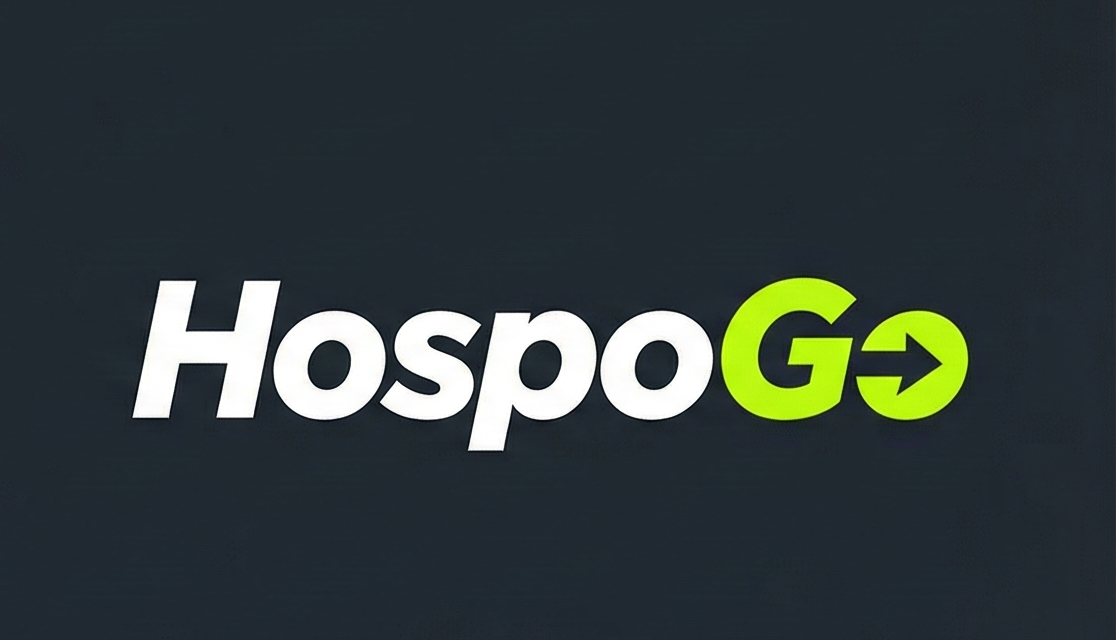
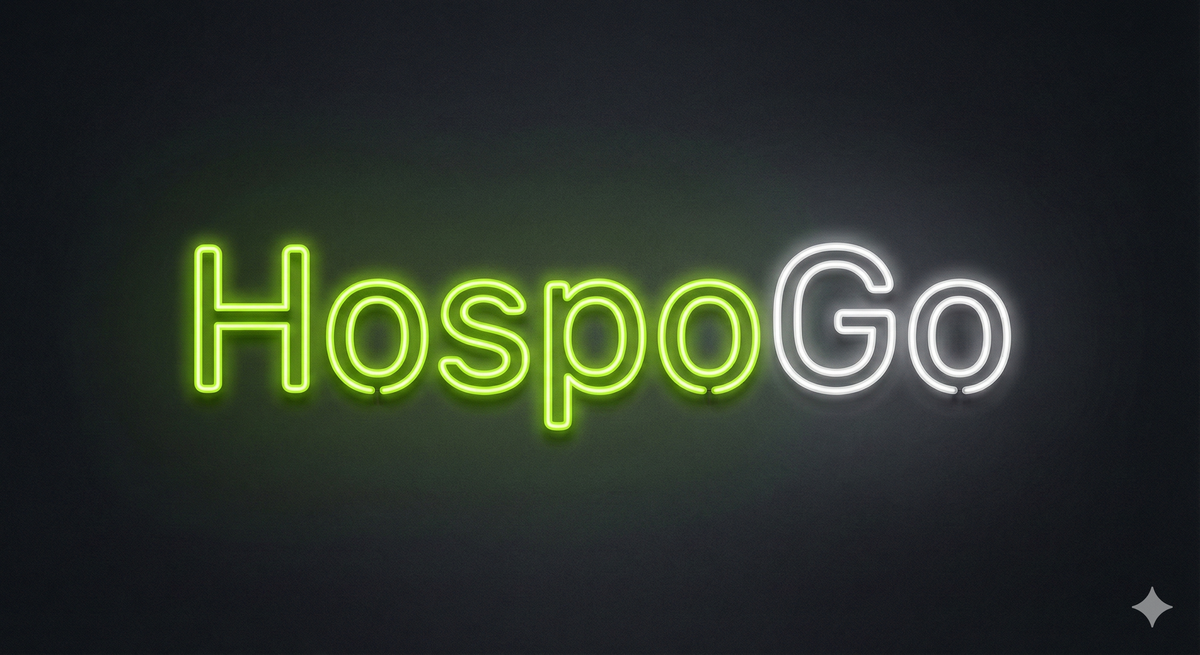
chore(branding): apply neon wordmark across shell
Replaces the brand wordmark asset and updates navbar/footer/splash/loading usage so the neon logo renders consistently without inversion filters.

diff --git a/src/components/ui/loading-screen.tsx b/src/components/ui/loading-screen.tsx
@@ -1,5 +1,4 @@
-import React from 'react';
-const logoUrl = '/brand-logo.png';
+const logoUrl = '/brand-wordmark.png';
 
 export function LoadingScreen() {
   return (
@@ -8,10 +7,10 @@ export function LoadingScreen() {
         <img 
           src={logoUrl} 
           alt="HospoGo" 
-          className="w-64 h-auto object-contain animate-pulse logo-sharp"
+          className="w-72 max-w-[85vw] h-auto object-contain animate-pulse logo-sharp"
           style={{
             imageRendering: 'auto',
-            filter: 'brightness(2.5) contrast(2.0) saturate(1.2) drop-shadow(0 0 15px rgba(255,255,255,0.5))',
+            filter: 'drop-shadow(0 0 18px rgba(255,255,255,0.25))',
             WebkitFontSmoothing: 'antialiased',
           }}
           loading="eager"

diff --git a/src/components/layout/Navbar.tsx b/src/components/layout/Navbar.tsx
@@ -1,4 +1,4 @@
-import { Link, useNavigate } from "react-router-dom";
+import { Link, useNavigate } from "react-router-dom";
 import { useAuth } from "@/contexts/AuthContext";
 import { useToast } from "@/hooks/useToast";
 import { Button } from "@/components/ui/button";
@@ -121,7 +121,7 @@ export default function Navbar() {
               <img 
                 src={logoUrl} 
                 alt="HospoGo Logo" 
-                className="h-10 w-auto object-contain max-w-32 sm:max-w-none logo-sharp invert contrast-[1.3] brightness-[1.08] saturate-[1.15] dark:invert-0" 
+                className="h-10 w-auto object-contain max-w-32 sm:max-w-none logo-sharp" 
                 loading="eager"
                 width={120}
                 height={40}

diff --git a/src/components/layout/Footer.tsx b/src/components/layout/Footer.tsx
@@ -12,7 +12,7 @@ export function Footer() {
               <img 
                 src={logoUrl} 
                 alt="HospoGo Logo" 
-                className="h-8 w-auto logo-sharp invert dark:invert-0 dark:contrast-[1.3] dark:brightness-[1.08] dark:saturate-[1.15]"
+                className="h-8 w-auto logo-sharp"
                 loading="eager"
                 width={96}
                 height={32}

diff --git a/index.html b/index.html
@@ -191,7 +191,7 @@
     <div id="splash-screen">
       <div class="splash-logo-container">
         <img 
-          src="/brand-logo.png" 
+          src="/brand-wordmark.png" 
           alt="HospoGo" 
           class="splash-logo"
           width="256"

diff --git a/DEVELOPMENT_TRACKING_PART_02.md b/DEVELOPMENT_TRACKING_PART_02.md
@@ -1010,3 +1010,37 @@
 
 **Code Organization & Quality**
 - Kept changes scoped to configuration + domain references (no new patterns introduced).
+
+---
+
+#### 2026-01-10: Swap Navbar + Splash/Loading to Neon HospoGo Wordmark
+
+**Core Components**
+- App shell splash screen branding (`index.html`)
+- Global navigation branding (`src/components/layout/Navbar.tsx`)
+- Global footer branding (`src/components/layout/Footer.tsx`)
+- In-app loading state branding (`src/components/ui/loading-screen.tsx`)
+- Public brand asset (`public/brand-wordmark.png`)
+
+**Key Features**
+- **Neon wordmark applied**: Replaced the public wordmark asset with the new neon HospoGo logo so the primary brand mark is consistent across the app.
+- **Navbar color correctness**: Removed the prior invert/brightness filters on the Navbar logo so the neon colors render accurately.
+- **Footer color correctness**: Removed the prior invert/brightness filters on the Footer logo so it matches the Navbar.
+- **Splash/loading alignment**: Updated the pre-hydration splash logo and in-app loading screen to use the wordmark asset for consistent first-paint branding.
+
+**Integration Points**
+- Static asset served from `public/` at `/brand-wordmark.png`
+- App shell splash rendered before React hydration (`index.html`)
+
+**File Paths**
+- `public/brand-wordmark.png`
+- `index.html`
+- `src/components/layout/Navbar.tsx`
+- `src/components/layout/Footer.tsx`
+- `src/components/ui/loading-screen.tsx`
+
+**Next Priority Task**
+- Review the wordmark sizing on small mobile widths and adjust only if needed (keep it crisp; avoid heavy filters).
+
+**Code Organization & Quality**
+- Kept changes localized to asset + direct consumers; no new components or patterns introduced.

diff --git a/SNIPSHIFT_FINAL_COMPLETION_ROADMAP.md b/SNIPSHIFT_FINAL_COMPLETION_ROADMAP.md
@@ -62,6 +62,20 @@
 
 ---
 
+### Update: 2026-01-10 - Neon Logo Applied (Navbar + Splash/Loading)
+
+**Status:** ✅ **UPDATED**
+
+**Action Taken:**
+- Replaced the header/footer wordmark asset with the new neon HospoGo logo.
+- Removed the prior invert/brightness filters so the logo renders with correct colors.
+- Updated the app splash screen and in-app loading screen to match the wordmark branding.
+
+**Impact:**
+- **Consistent first-paint branding**: users see the same neon wordmark from initial load through the app shell.
+
+---
+
 ### Update: 2026-01-10 - Hospitality Shift Model & UI (Roles + Uniform/RSA/Pax + Hourly Pricing)
 
 **Status:** ✅ **IMPLEMENTED**
